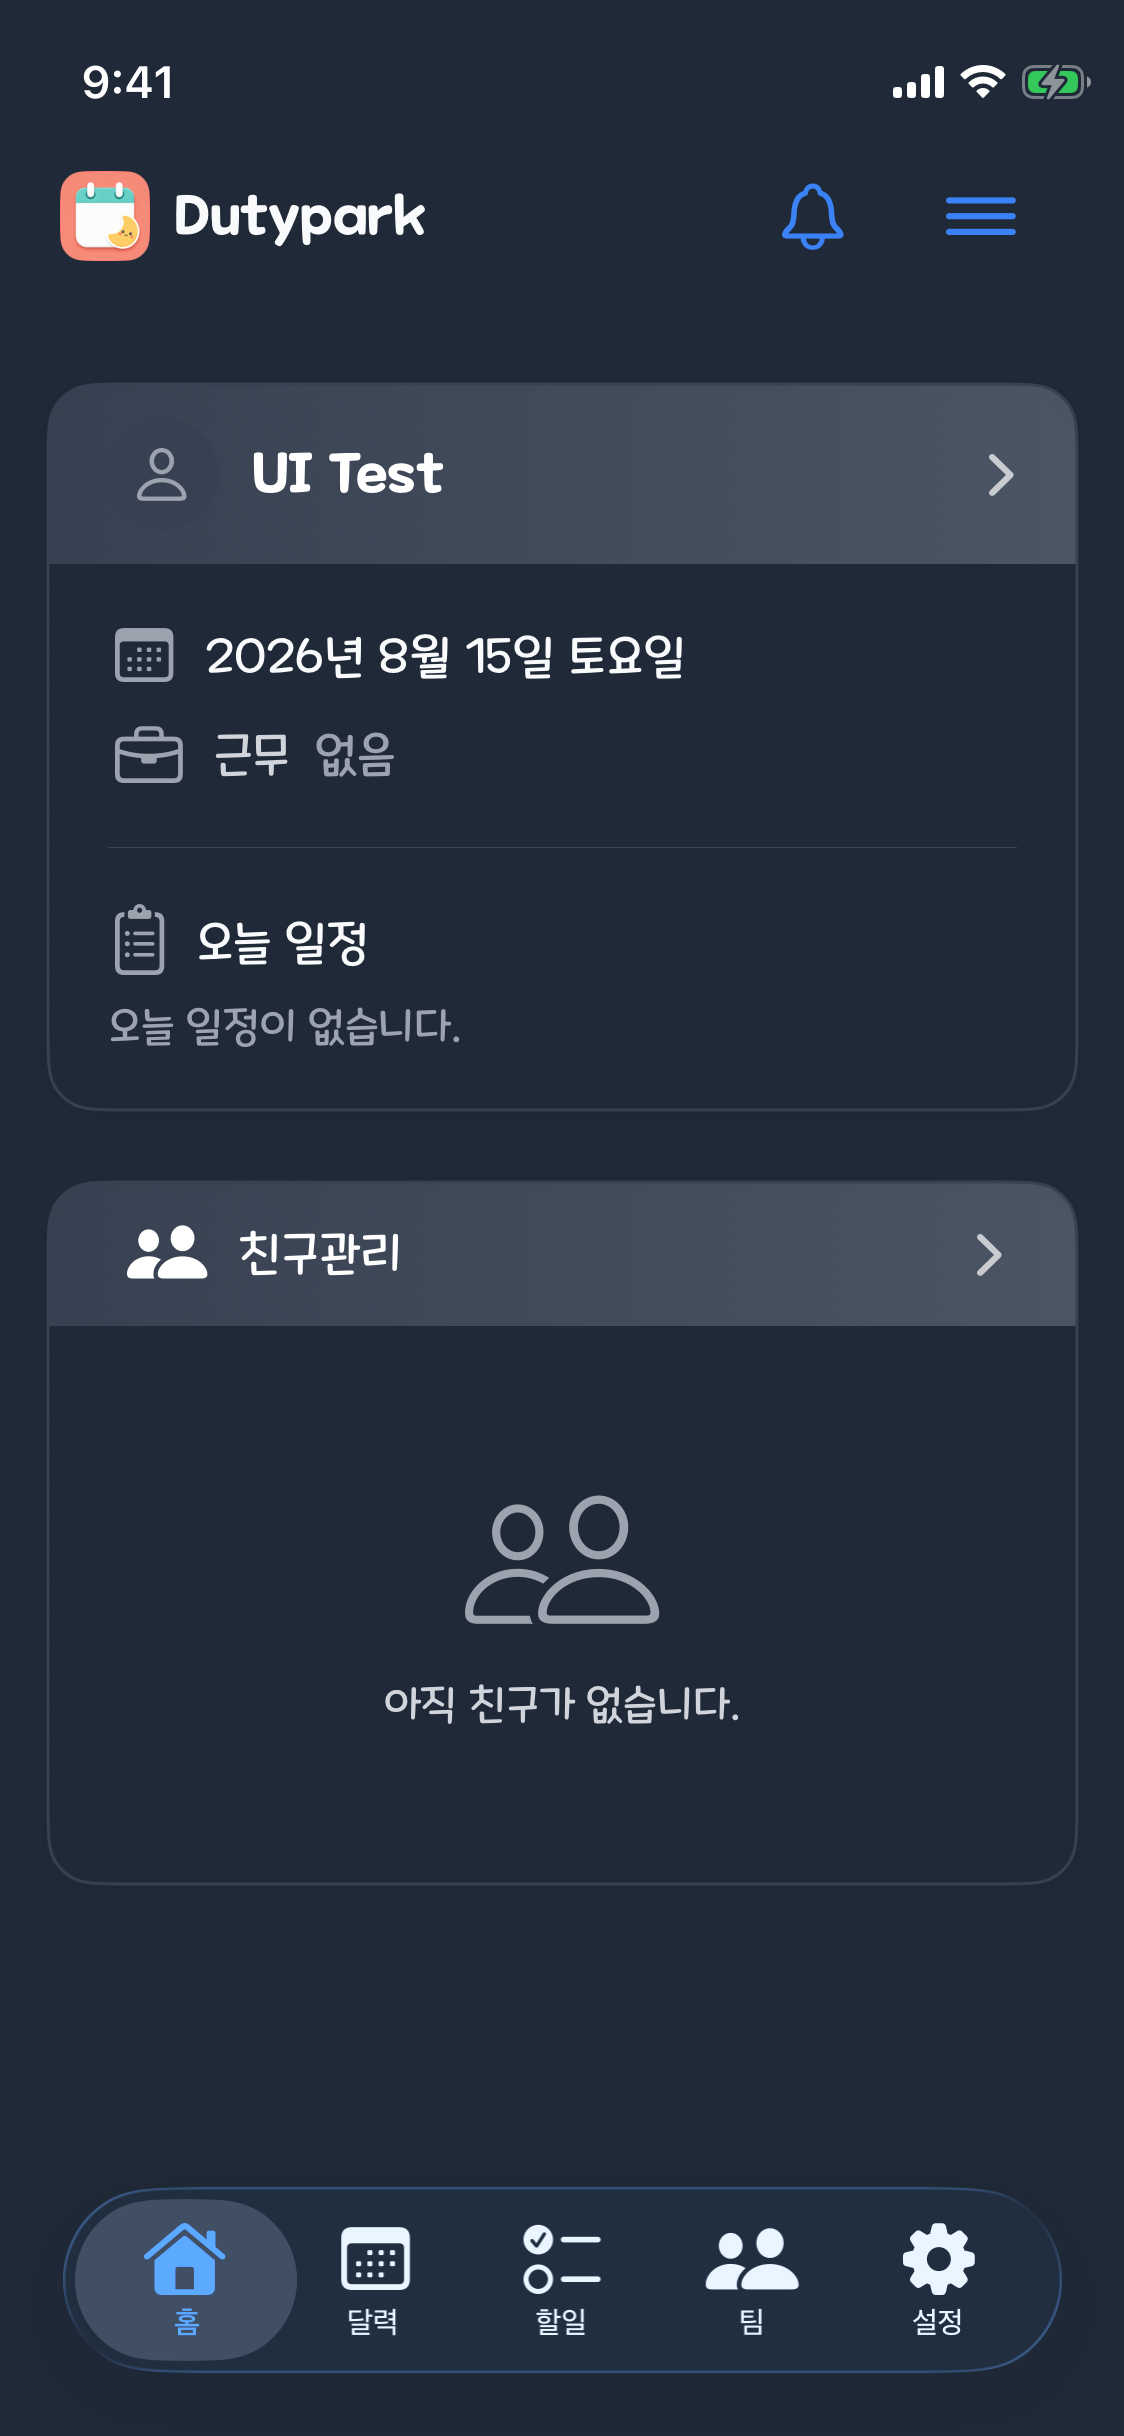
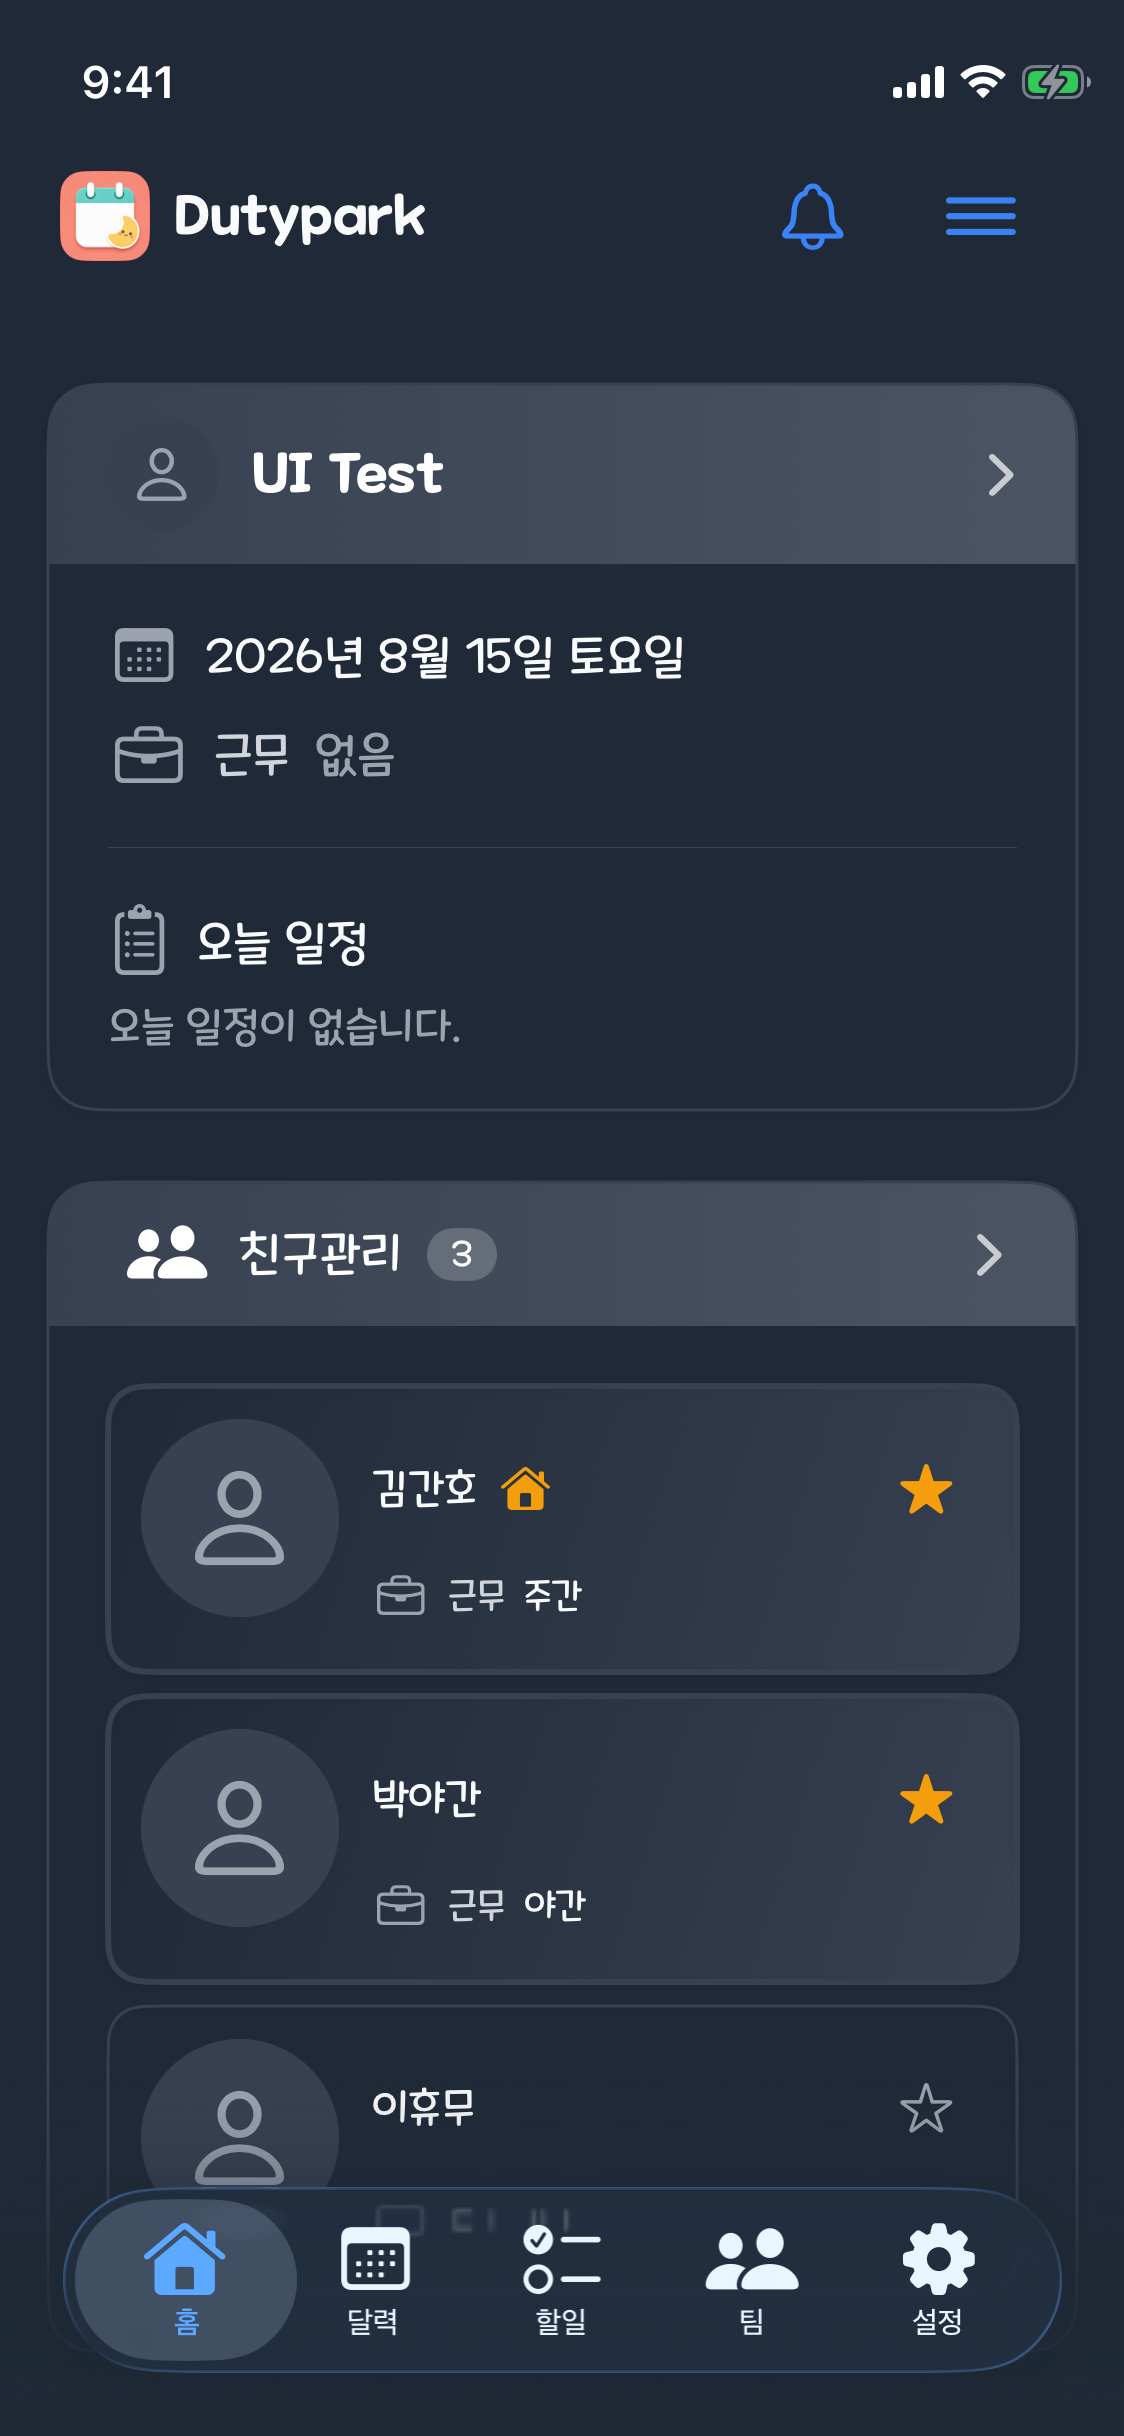
docs: refresh populated home parity evidence

Changed region(s): [[0.0934, 0.5616, 0.9342, 0.9048], [0.3737, 0.4992, 0.4359, 0.5304], [0.8096, 0.5928, 0.8407, 0.624]]

diff --git a/ios/app-store-readiness/13-mobile-web-parity-ui/README.md b/ios/app-store-readiness/13-mobile-web-parity-ui/README.md
@@ -50,6 +50,7 @@
 | 15 | 달력 | 근무 요약·액션이 없는데도 빈 도구행이 남아 월 그리드 위에 큰 공백이 생김 | 완료 | `a0aea3a8` |
 | 16 | Todo | 선택한 상태와 다른 열이 보여 카드가 화면 밖에 놓이고, 롱프레스 제스처가 일반 탭을 막음 | 완료 | `b84b2478` |
 | 17 | Todo | 웹의 `진행중` 상태가 iOS에서 `진행`으로 축약됨 | 완료 | `73fe7e0a` |
+| 18 | 대시보드 · 친구 | 수정 후 증빙이 빈 fixture라 친구 총수·목록 유지 여부를 비교할 수 없음 | 완료 | `ed29121c` |
 
 상태는 `대기 → 진행 중 → 수정됨·커밋 전 → 코드 커밋됨·시각 검증 전 → 완료` 순으로 관리한다.
 
@@ -92,6 +93,7 @@
 | `a0aea3a8` | 내용 없는 달력 근무 도구행 제거 | Calendar focused test, generic test build | iPhone 13 mini 월 그리드 상단 재캡처 | 완료 |
 | `b84b2478` | Todo 카드 탭·롱프레스·선택 열 정렬 복원 | Todo 단위 32건, iPhone 13 mini UI 5건 | 실제 카드 탭 삭제·작성 취소 패널 및 드래그·스크롤 검증 | 완료 |
 | `73fe7e0a` | Todo `진행중` 상태 문구 복원 | exact ko/en 테스트, generic build·test build, UI 1건 | 상단 탭·보드 열 `진행중` 재캡처 | 완료 |
+| `ed29121c` | 친구가 있는 Home parity fixture | HomeDashboard 11건, generic build·test build, UI 1건 | 친구 총수 3·고정 2·일반 1 재캡처 | 완료 |
 
 ## 상세 변경 보고
 
@@ -103,9 +105,10 @@
 
 - 원래 웹: 제목은 `친구관리`, 요청 카운트와 별도 재정렬 핸들이 없다.
 - 수정 전 iOS: 제목이 `친구`로 축약됐고 받은/보낸 요청 카운트 및 작은 핸들을 노출했다.
-- 수정 후 iOS: 제목을 복원하고 카운트와 핸들을 제거했다. 친구 카드 자체를 0.35초 이상 누르면 드래그 모드가 된다.
+- 수정 후 iOS: 제목을 복원하고 받은/보낸 요청 카운트와 핸들을 제거했다. 친구 총수 배지는 웹과 동일하게 유지하며, 친구 카드 자체를 0.35초 이상 누르면 드래그 모드가 된다.
 - 접근성: VoiceOver 위/아래 이동 액션은 유지했다.
-- 검증: `HomeDashboardTests` 11건 통과, iPhone 13 mini 수정 후 화면 확인.
+- 최초 수정 후 캡처는 빈 fixture여서 친구 총수와 목록을 검증할 수 없었다. `ed29121c`에서 고정 친구 2명과 일반 친구 1명을 제공해 총수 `3`, 요청 요약 부재, 핸들 부재, 롱프레스 후 Home 유지까지 실제 화면에서 확인했다.
+- 검증: `HomeDashboardTests` 11건과 전용 iPhone 13 mini UI 테스트 1/1 통과. 결과: `/tmp/Dutypark-HomeFriendEvidence-Unit.xcresult`, `/tmp/Dutypark-HomeFriendEvidence-Green-Retry.xcresult`.
 
 ### Todo 롱프레스 재정렬 — `a28f348c`
 
